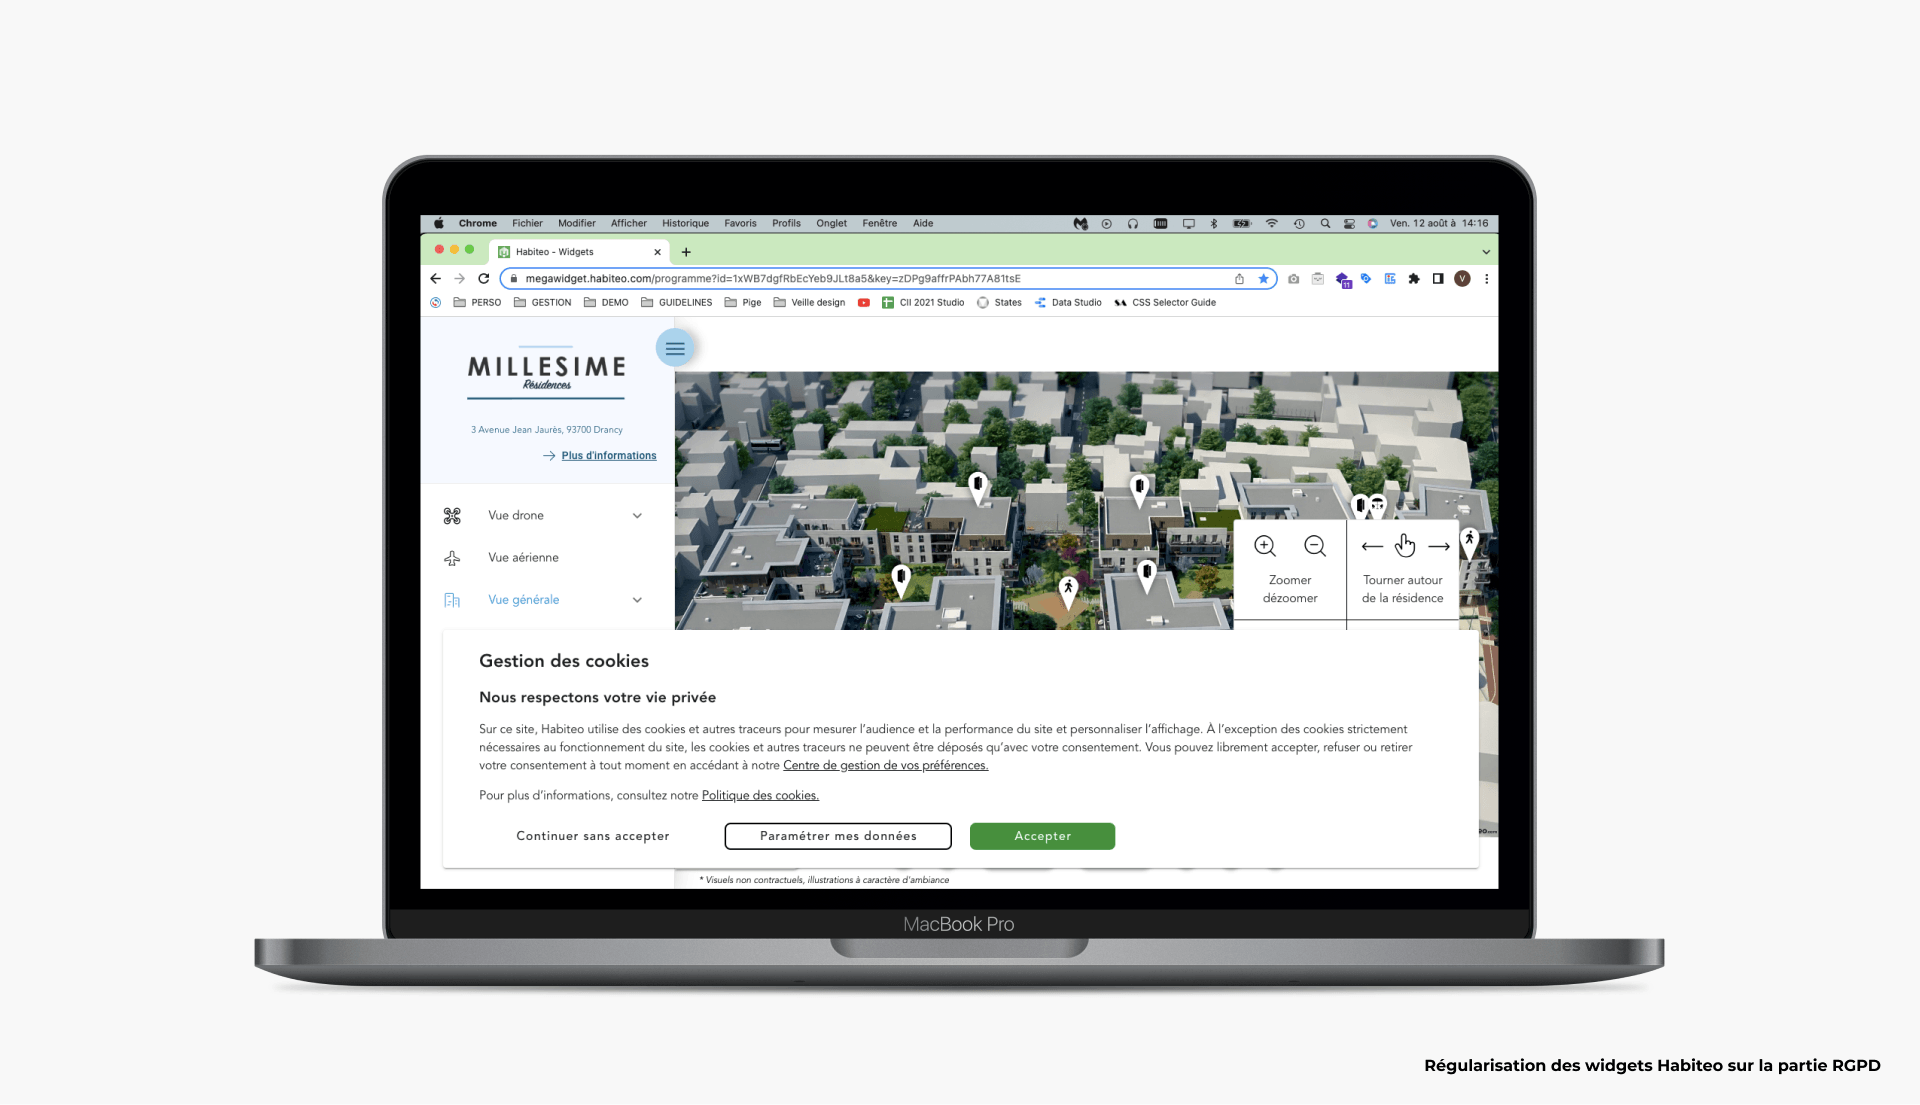
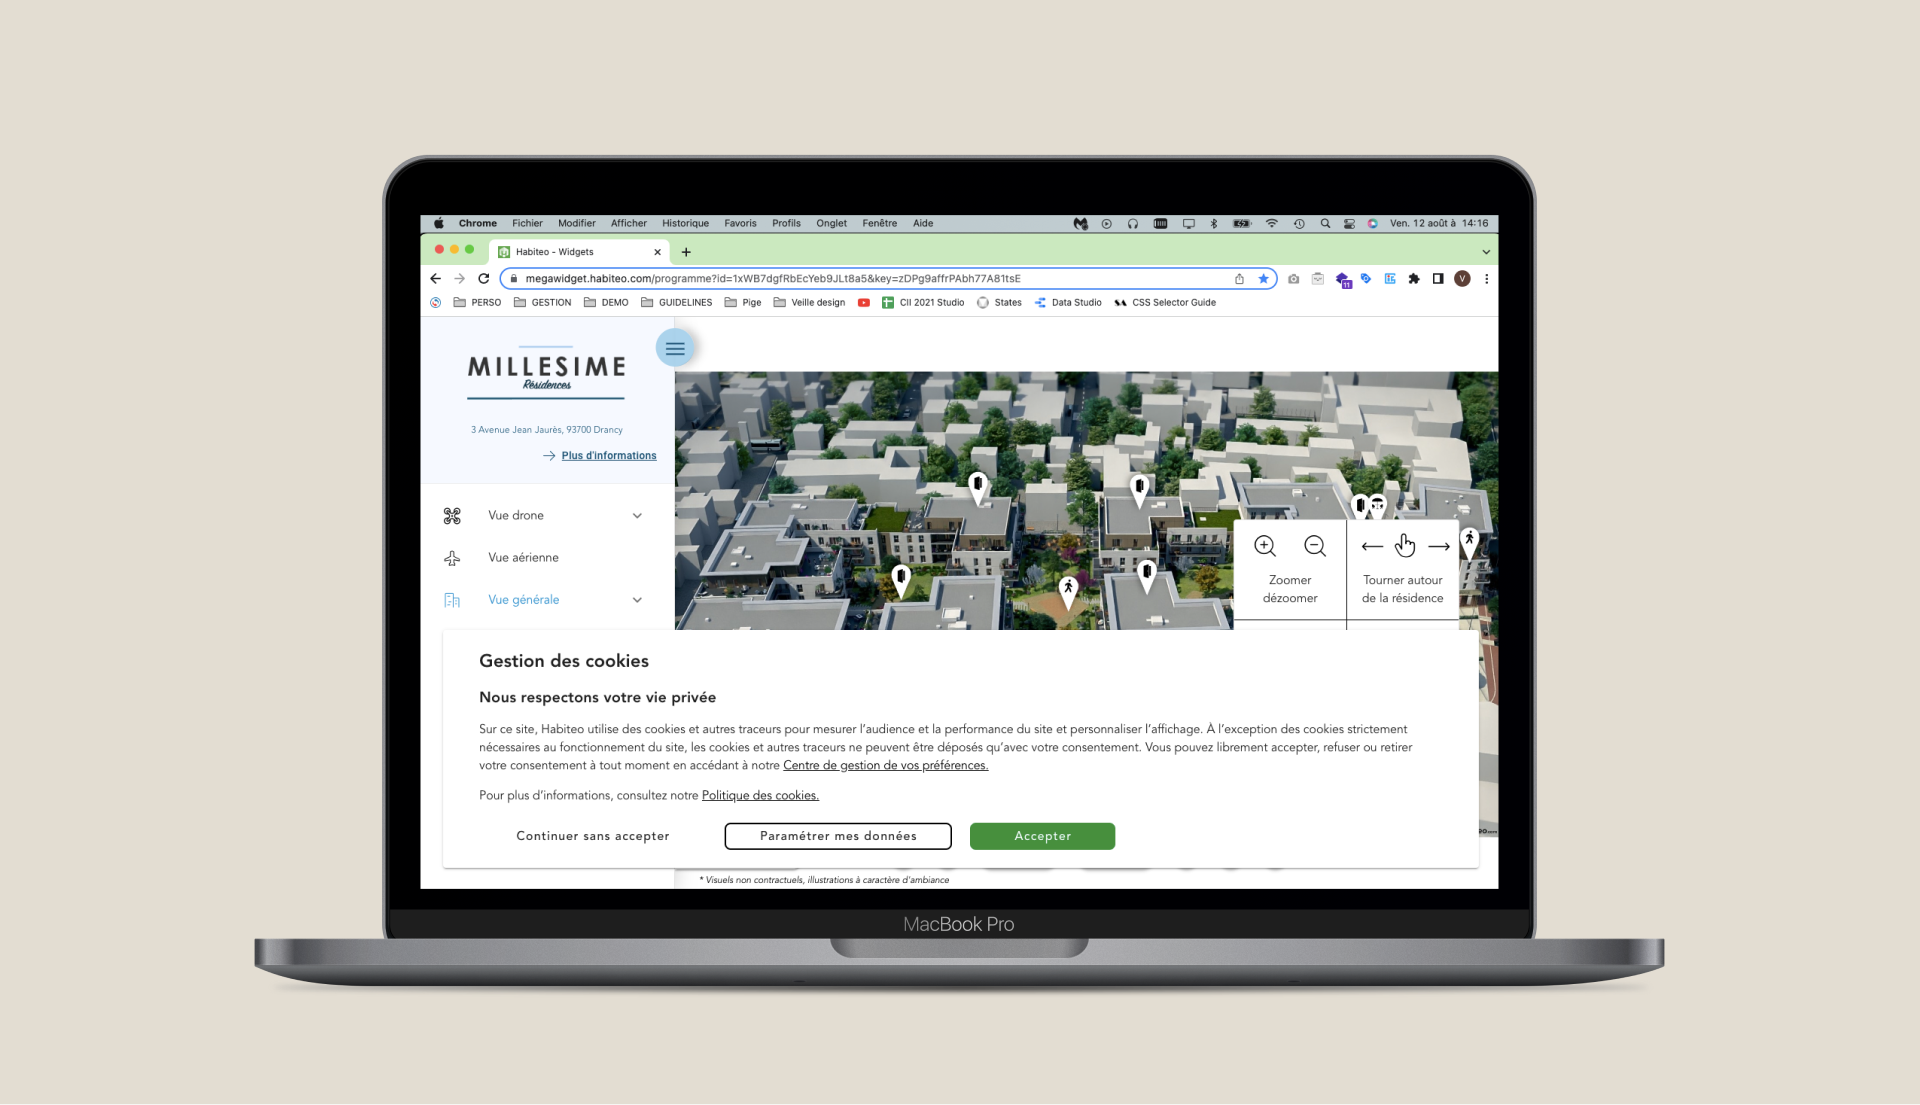
V1 : Correction des images et rédaction article

diff --git a/photography.html b/photography.html
@@ -67,7 +67,7 @@
                 <div class="photo-hero__eyebrow eyebrow reveal">Univers · Photographie d'aventure</div>
                 <h1 class="photo-hero__title reveal reveal-delay-1">
                     Immortaliser des moments<br>
-                    <em>et le silence </em><br>
+                    <em>et la lumière </em><br>
                     des grands espaces.
                     
                 </h1>
@@ -112,7 +112,7 @@
                         <h3 class="project__title">De Buenos Aires à Ushuaïa</h3>
                         <span class="project__year">2024 · Argentine</span>
                     </div>
-                    <p class="project__context">Vingt-deux jours à descendre la Patagonie, du Río de la Plata au canal de Beagle. Trois mille sept cents kilomètres, plein sud, un seul boîtier.</p>
+                    <p class="project__context">14 jours à descendre la Patagonie, des grandes pleines désertiques jusqu'au canal de Beagle.</p>
                 </a>
 
                 <a href="#" class="project project--sand reveal">
@@ -165,17 +165,17 @@
                 <div class="photo-about__text reveal">
                     <div class="eyebrow photo-about__eyebrow">À propos</div>
                     <h2 class="photo-about__title">
-                        Marcher d'abord. <em>Photographier ensuite.</em>
+                        Se déplacer là où la <em>photo est différente.</em>
                     </h2>
                     <p class="photo-about__lead">
-                        Je voyage à la cadence du marcheur, sac léger et carnet ouvert. La photographie vient quand le pas s'arrête — devant une lumière, un visage, un horizon qui demande qu'on lui prête attention.
+                        Je voyage à la cadence du marcheur, sac léger sur le dos et matériel en conséquence, savoir se faire discret pour capturer du spontané. La photographie vient quand le pas s'arrête, devant une lumière, un visage, un horizon qui demande qu'on lui prête attention, le tout c'est de ne jamais s'arrêter de chercher.
                     </p>
                     <p class="photo-about__body">
-                        Mon travail s'inscrit dans la lignée des carnets d'expédition : raconter un lieu sur la durée, sans précipitation, sans filtre, en privilégiant la rencontre au cliché. Chaque carnet de voyage est un compte rendu fidèle d'une saison passée quelque part — pas un best-of.
+                        Mon travail s'inscrit dans la lignée des carnets d'expédition : raconter un lieu sur la durée, se déplacer dans les moindres recoins pour en exploiter tout le potentiel et ce qu'il a nous livrer. Chaque carnet de voyage est un compte rendu fidèle d'un moment passé quelque part.
                     </p>
                 </div>
 
-                <div class="photo-about__stats reveal">
+                <!-- <div class="photo-about__stats reveal">
                     <div class="photo-stat">
                         <span class="photo-stat__num">32</span>
                         <span class="photo-stat__label">Pays traversés</span>
@@ -192,7 +192,7 @@
                         <span class="photo-stat__num">7</span>
                         <span class="photo-stat__label">Années sur le terrain</span>
                     </div>
-                </div>
+                </div> -->
 
             </div>
         </section>
@@ -215,7 +215,7 @@
                         <span class="photo-gear__num">01</span>
                         <div>
                             <h3 class="photo-gear__name">Fujifilm X-E5</h3>
-                            <p class="photo-gear__desc">Boîtier APS-C compact, discret et résistant. Le compromis idéal entre qualité d'image et encombrement pour les longues marches.</p>
+                            <p class="photo-gear__desc">Boîtier compact, discret et résistant. Le compromis idéal entre qualité d'image et encombrement pour les longues marches.</p>
                         </div>
                     </div>
 
@@ -250,33 +250,17 @@
                         Une commande, une expédition, <em>un sujet à raconter ?</em>
                     </h2>
                     <p class="photo-services-teaser__desc">
-                        J'accompagne marques outdoor, magazines et institutions sur des reportages photo, des carnets éditoriaux et des expéditions sur mesure. Une page dédiée arrive prochainement — en attendant, écrivez-moi.
+                        J'accompagne marques outdoor, sportifs, magazines et institutions sur des reportages photo, des carnets éditoriaux et des expéditions sur mesure, n'importe où et à n'importe quelle heure.
                     </p>
                 </div>
-
-                <a href="#" class="photo-services-teaser__cta reveal" aria-label="Bientôt — page services photo">
-                    <span class="photo-services-teaser__cta-label">Bientôt</span>
-                    <span class="photo-services-teaser__cta-text">Page services photo</span>
+                <a href="mailto:[email redacted]" class="photo-services-teaser__cta reveal" aria-label="Me contacter">
+                    <!-- <span class="photo-services-teaser__cta-label">Bientôt</span> -->
+                    <span class="photo-services-teaser__cta-text">Me contacter</span>
                     <svg class="photo-services-teaser__cta-arrow" width="18" height="14" viewBox="0 0 16 12" fill="none" xmlns="http://www.w3.org/2000/svg" aria-hidden="true">
                         <path d="M9.5 1L15 6M15 6L9.5 11M15 6H1" stroke="currentColor" stroke-width="1.4" stroke-linecap="round" stroke-linejoin="round"/>
                     </svg>
                 </a>
 
-            </div>
-        </section>
-
-        <!-- Contact final -->
-        <section class="photo-contact" id="contact">
-            <div class="photo-contact__inner reveal">
-                <p class="photo-contact__text">
-                    Un terrain à documenter ? Un carnet à imaginer ensemble ?
-                </p>
-                <a href="mailto:[email redacted]" class="cta-button">
-                    Me contacter
-                    <svg class="cta-button__arrow" width="18" height="14" viewBox="0 0 16 12" fill="none" xmlns="http://www.w3.org/2000/svg" aria-hidden="true">
-                        <path d="M9.5 1L15 6M15 6L9.5 11M15 6H1" stroke="currentColor" stroke-width="1.4" stroke-linecap="round" stroke-linejoin="round"/>
-                    </svg>
-                </a>
             </div>
         </section>
 

diff --git a/projects/de-buenos-aires-a-ushuaia.html b/projects/de-buenos-aires-a-ushuaia.html
@@ -91,7 +91,7 @@
                 </div>
                 <div class="case-hero__meta-item">
                     <span class="case-hero__meta-label">Durée</span>
-                    <span class="case-hero__meta-value">12 jours</span>
+                    <span class="case-hero__meta-value">14 jours</span>
                 </div>
                 <div class="case-hero__meta-item">
                     <span class="case-hero__meta-label">Compagnons</span>
@@ -149,7 +149,7 @@
             <div class="case-section__num reveal">02 — L'itinéraire</div>
             <h2 class="case-section__title reveal reveal-delay-1">Quatre escales, trois mille sept cents kilomètres.</h2>
             <div class="case-prose reveal reveal-delay-2">
-                <p>De Buenos Aires à Ushuaïa, par la Route 3 et un ferry pour franchir le détroit. Quatre points d'arrêt — chacun une raison, chacun une lumière différente.</p>
+                <p>De Buenos Aires à Ushuaïa, par la Route 3. 3 bus et un ferry pour franchir le détroit.</p>
             </div>
 
             <div class="case-map__frame reveal">
@@ -193,20 +193,22 @@
         <!-- 03 — Le récit -->
         <section class="case-chapters" id="recit" data-toc>
             <div class="case-section__num reveal">03 — Le récit</div>
-            <h2 class="case-section__title reveal reveal-delay-1">Vingt-deux jours, racontés par étapes.</h2>
+            <h2 class="case-section__title reveal reveal-delay-1">Quatorze jours, racontés par étapes.</h2>
 
             <div class="case-chapters__list">
 
                 <article class="case-chapter reveal">
                     <div class="case-chapter__col">
                         <div class="case-chapter__head">
-                            <span class="case-chapter__step">Étape 01 · Jours 1 à 3</span>
+                            <span class="case-chapter__step">Étape 01 · Jours 1 à 7</span>
                             <h3 class="case-chapter__title">Buenos Aires — la mise en route</h3>
                             <p class="case-chapter__loc">Capitale fédérale · Río de la Plata</p>
                         </div>
                         <div class="case-chapter__text">
-                            <p>Première impression : la chaleur humide, et les arbres immenses de Recoleta qui font de l'ombre comme à Lisbonne. Buenos Aires se traverse à pied. San Telmo, La Boca, Palermo Soho — chaque quartier a sa lumière, ses façades, sa façon de ne pas se ressembler.</p>
-                            <p>Trois jours pour acclimater l'œil. Le boîtier reste sorti tout le temps — pas pour photographier, surtout pour <em>regarder</em>. Apprendre à doser entre l'envie de tout cadrer et celle de simplement marcher.</p>
+                            <p>Première impression à la descente de l'avion : la chaleur humide, evidemment ici c'est l'été. Après une grosse escale à Madrid nous foulons enfin le sol de l'amérique du sud mais pas sur n'importe quelle terre, <b>l'Argentine</b>. Exténués par les heures d'avion et le vacarme qui nous tombre dessus à la sortie de l'avion, nous avons rapidement fait de tomber dans le piège à touriste un Taxi qui se régalera de notre crédulité quant aux prix et qui nous conduira à plus de 150km/h jusqu'à notre Hostel dans le quartier de <b>Montserra</b> sur des routes ou les panneaux n'éxedaient pas 70km/h, mais comme dirait un copain à moi <b>"La classique, ça n'aurait pas bien commencé si ça avait été l'inverse"</b> et en y repenssant, il avait tellement raison.</p> 
+                            <p>Les premiers jours sont à la fois excitants et compliqués, tout nous étonne, les yeux sont grands ouverts, les jambes fourmillent à l'idée de découvrir, c'est <b>la première fois</b>que nous sommes si loins de nos familles et de nos amis, de la Françe et de tout nos repères, ça nous animent mais ça nous inquiète aussi. En plus je tombe malade, grosse fièvre, dès le deuxième jour, une fichue grippe venu de Françe, quelle merde ! Transpiration à grosse goûte et raideurs dans tout le corps mais je ne veux pas inquiéter Nono qui elle aussi à parfois un peu de mal. </br>Nono c'est ma copine, on partage tout depuis bientôt 10 ans, c'est avec elle que j'ai grandis, grâce à elle que j'ai muris, bref on se doit beaucoup mais moi encore plus.</p>
+                            <p>On enchaine les quartiers, Montserra le quartier de notre hostel et ses différents batiments et places historiques aux styles très européens, un soir on prend même un cour de tango, le prof felicitera Nono pour son aisance naturelle et me fera comprendre avec son espagnol bien argentin que j'ai la rigidité d'un balais... Qu'est ce que j'aurais aimé qu'il ait tord... On continue avec <b>San Telmo</b> notre quartier favoris de Buenos Aires, on y déguste un asado délicieu, célèbre barbecue traditionnel argentin, au <b>Desnivel</b> et on se mange empanadas et Choripan au Mercado de San Telmo, vous l'aurez compris, on aime manger ! La visite se poursuit par le <b>quartier populaire de la Boca</b> avec le super stade de l'équipe Boca Junior, bien connu dans le monde des fans de foot. Le quartier est aussi connu pour ses couleurs et sa rue emblématique "Caminito" jonché d'artistes peintres.</p>
+                            <p>Notre step à Buenos Aires se terminera par la visite de Parlermo à la suite de quoi nous prendrons le premier bus d'une longue série pour rejoindre Puerto Madryn et la Péninsule Valdes</p>
                         </div>
                     </div>
                     <figure class="case-chapter__photo">
@@ -218,13 +220,13 @@
                 <article class="case-chapter reveal">
                     <div class="case-chapter__col">
                         <div class="case-chapter__head">
-                            <span class="case-chapter__step">Étape 02 · Jours 4 à 8</span>
+                            <span class="case-chapter__step">Étape 02 · Jours 7 à 11</span>
                             <h3 class="case-chapter__title">Puerto Madryn — la péninsule Valdés</h3>
                             <p class="case-chapter__loc">Province de Chubut · Atlantique</p>
                         </div>
                         <div class="case-chapter__text">
-                            <p>1 380 km de bus de nuit. On se réveille dans un autre pays : le ciel a triplé de volume, l'horizon est plat sur 360°. Puerto Madryn est une petite ville côtière qui sent l'huile solaire et le vent.</p>
-                            <p>Trois jours sur la péninsule Valdés. Manchots de Magellan, otaries, et — au large — les souffles des baleines franches qui viennent mettre bas dans le golfe. Photographier de loin, beaucoup attendre. La péninsule apprend la patience aux gens pressés.</p>
+                            <p>1 380 km et 20 heures de bus de nuit plus tard. On se réveille dans un autre pays : le ciel a triplé de volume, l'horizon est plat sur 360°. Puerto Madryn est une petite ville côtière qui sent l'huile solaire et le vent.</p>
+                            <p>Trois jours sur la péninsule Valdés nous attendent maintenant et avant de partir à la rencontre de l'extraordinaire faune sauvage des environs, on a profité de cette journée pour se reposer, profiter du petit dej compris dans la formule de l'hostel (miam), s'enfiler une demie douzaine d'empanadas pas trop longtemps plus tard, rencontrer un chic savoyard répondant au nom de Josyan et qu'on risque de recroiser pour faire le nouvel an ensemble un peu plus tard dans notre périple, marcher quelques kilomètres au sud de la ville (où l'on a d'ailleurs croisé une bande de perroquets ? qui avaient a priori beaucoup de choses à raconter), et puis, cerise sur le gateau, boire une bonne bière en soirée avec notre nouveau copain !</p>
                         </div>
                     </div>
                     <figure class="case-chapter__photo">

diff --git a/projects/habiteo-widgets.html b/projects/habiteo-widgets.html
@@ -166,10 +166,15 @@
                 <p>Habiteo était une startup pilotée par le business — la recherche utilisateur n'y était pas une priorité native. Trop coûteuse en temps et en ressources pour être menée dans les règles de l'art, elle aurait pu disparaître du radar. Grâce au sponsoring d'Emmanuel, convaincu de sa valeur dans la phase d'exploration, nous avons mis en place deux formats adaptés au contexte :</p>
                 <p><strong>Interviews clients.</strong> Des entretiens avec des promoteurs sur leurs besoins d'intégration. Une cible sensible, à approcher avec précaution. Ces échanges ont notamment fait remonter la demande de personnalisation graphique des widgets — pour coller au branding des sites promoteurs et rendre les intégrations iframe plus naturelles.</p>
                 <p><strong>Tests et entretiens internes.</strong> À plusieurs reprises, j'ai organisé des sessions guidées avec des collègues pour observer des problèmes de navigation, de compréhension de l'information, ou recueillir du feedback sur des choix visuels. Peu coûteux en outils, nécessitant seulement du temps, ces sessions ont produit des insights qualitatifs précieux — et révélé des frustrations ou idées que les équipes n'auraient pas spontanément remontées autrement.</p>
+
+                <h3>#3 — Le comité Sales/UX</h3>
+                <p>Mensuel, ce comité réunissait les équipes commerciales et moi pour faire remonter de nouveaux sujets terrain et challenger ma priorisation avec leur réalité business. Mon manager l'animait avant de m'en passer le relai — une transmission qui m'a mis en position de faire le lien direct entre la vision produit et les retours du front commercial. Constamment en contact avec les clients, les sales ont été une <strong>source d'alimentation essentielle du backlog</strong>.</p>
+            </div>
+        </section>
             </div>
         </section>
 
-        <div class="case-grid reveal">
+        <!-- <div class="case-grid reveal">
             <figure class="case-figure case-figure--sand">
                 <div class="case-figure__media">
                     <img class="case-figure__image" src="https://picsum.photos/seed/habiteo-widgets-audit/900/1100" alt="Audit UX des widgets, capture d'écran annotée" loading="lazy" />
@@ -182,14 +187,14 @@
                 </div>
                 <figcaption class="case-figure__caption">Sessions internes · Observations &amp; insights qualitatifs</figcaption>
             </figure>
-        </div>
+        </div> -->
 
-        <section class="case-section">
+        <!-- <section class="case-section">
             <div class="case-prose reveal">
                 <h3>#3 — Le comité Sales/UX</h3>
                 <p>Mensuel, ce comité réunissait les équipes commerciales et moi pour faire remonter de nouveaux sujets terrain et challenger ma priorisation avec leur réalité business. Mon manager l'animait avant de m'en passer le relai — une transmission qui m'a mis en position de faire le lien direct entre la vision produit et les retours du front commercial. Constamment en contact avec les clients, les sales ont été une <strong>source d'alimentation essentielle du backlog</strong>.</p>
             </div>
-        </section>
+        </section> -->
 
         <!-- Callout : À retenir -->
         <aside class="case-callout reveal">
@@ -215,7 +220,7 @@
 
         <figure class="case-figure case-figure--wide case-figure--ember reveal">
             <div class="case-figure__media">
-                <img class="case-figure__image" src="https://picsum.photos/seed/habiteo-widgets-iframe/1600/1000" alt="Les widgets en intégration iframe, déclinaisons responsive" loading="lazy" />
+                <img class="case-figure__image" src="../assets/images/habiteo-personnalisation.png" alt="Les widgets en intégration iframe, déclinaisons responsive" loading="lazy" />
             </div>
             <figcaption class="case-figure__caption">Une version iframe dédiée, en plus du desktop / tablette / mobile — la taille étant choisie par chaque promoteur.</figcaption>
         </figure>
@@ -335,7 +340,7 @@
                     </span>
                 </a>
                 <a href="renault-group.html" class="case-next__preview" aria-hidden="true">
-                    <img class="case-next__preview-img" src="https://picsum.photos/seed/renault-group-next/600/750?blur=8" alt="" loading="lazy" />
+                    <img class="case-next__preview-img" src="../assets/images/RG.jpg" alt="" loading="lazy" />
                     <span class="case-next__preview-label">Renault Group · 2022 — en cours</span>
                 </a>
             </div>

diff --git a/design.html b/design.html
@@ -140,7 +140,7 @@
                     </div>
                 </li>
 
-                <li class="pindex__item reveal">
+                <!-- <li class="pindex__item reveal">
                     <a href="#" class="pindex__link">
                         <span class="pindex__num">04</span>
                         <div class="pindex__main">
@@ -154,7 +154,7 @@
                     <div class="pindex__preview" aria-hidden="true">
                         <img src="https://picsum.photos/seed/solenne-saas-teaser/800/600" alt="" loading="lazy" />
                     </div>
-                </li>
+                </li> -->
 
             </ul>
         </section>

diff --git a/a-propos.html b/a-propos.html
@@ -91,7 +91,7 @@
                 </div>
 
                 <div class="about-hero__portrait reveal reveal-delay-2">
-                    <img src="assets/images/portrait-valentin.jpg" alt="Portrait de Valentin Bertinetti" loading="eager" />
+                    <img src="assets/images/profilphoto.jpg" alt="Portrait de Valentin Bertinetti" loading="eager" />
                     <div class="about-hero__portrait-caption" aria-hidden="true">
                         <span>V.B.</span>
                         <span>Paris · 2026</span>

diff --git a/projects/myhabiteo-studio.html b/projects/myhabiteo-studio.html
@@ -309,7 +309,7 @@
                     </span>
                 </a>
                 <a href="habiteo-widgets.html" class="case-next__preview" aria-hidden="true">
-                    <img class="case-next__preview-img" src="https://picsum.photos/seed/habiteo-widgets-next/600/750" alt="" loading="lazy" />
+                    <img class="case-next__preview-img" src="../assets/images/studio-maquettes3.png" alt="" loading="lazy" />
                     <span class="case-next__preview-label">Habiteo Widgets · 2020 — 2022</span>
                 </a>
             </div>

diff --git a/projects/renault-group.html b/projects/renault-group.html
@@ -304,7 +304,7 @@
                     </span>
                 </a>
                 <a href="myhabiteo-studio.html" class="case-next__preview" aria-hidden="true">
-                    <img class="case-next__preview-img" src="https://picsum.photos/seed/myhabiteo-studio-next/600/750" alt="" loading="lazy" />
+                    <img class="case-next__preview-img" src="../assets/images/Studio-production.png" alt="" loading="lazy" />
                     <span class="case-next__preview-label">MyHabiteo Studio · 2022</span>
                 </a>
             </div>